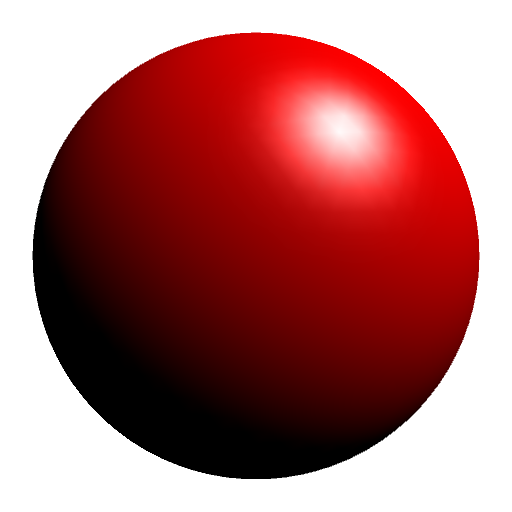
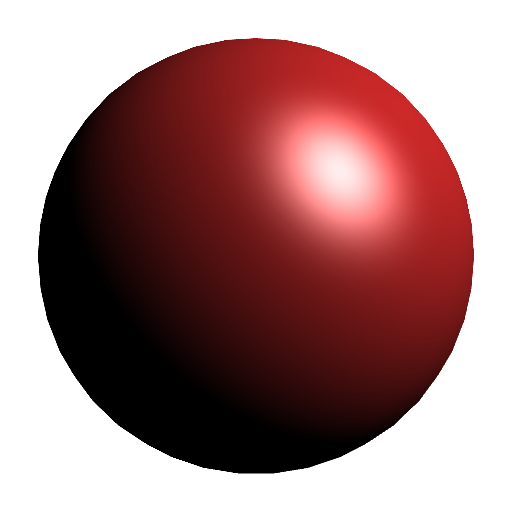
Redo lit sphere images

diff --git a/courses/csc4356/notes/05-lighting/lighting-4.html b/courses/csc4356/notes/05-lighting/lighting-4.html
@@ -12,13 +12,14 @@
 
 		<p><em>Specular</em> lighting models glossy surfaces.</p>
 
-		<table class="center">
-			<tr>
-				<td><img style="width:10em" src="../img/lit-sphere-specular.png"></td>
-				<td>&emsp;</td>
-				<td>$\V{c}_s=\V{c}_l\,\max(\V{n}\cdot\V{h}, 0)^\alpha$</td>
-			</tr>
-		</table>
+		<div class="tab">
+			<div class="col">
+				<img style="width:10em;margin-right:2em" src="../img/lit-sphere-specular.png">
+			</div>
+			<div class="col middle">
+				\[\V{c}_s=\V{c}_l\,\max(\V{n}\cdot\V{h}, 0)^\alpha\]
+			</div>
+		</div>
 
 		<p>The color of the light $\V{c}_l$ is modulated by the dot product of the normal $\V{n}$ and half-angle $\V{h}$ vectors, raised to a power.</p>
 
@@ -28,6 +29,16 @@
 		</figure>
 
 		<p>That power $\alpha$ determines the <em>tightness</em> of the distribution of color.</p>
+
+		<div class="tab">
+			<div class="col"><img style="width:12vw" src="../img/lit-sphere-specular-0.png"></div>
+			<div class="col"><img style="width:12vw" src="../img/lit-sphere-specular-1.png"></div>
+			<div class="col"><img style="width:12vw" src="../img/lit-sphere-specular-2.png"></div>
+			<div class="col"><img style="width:12vw" src="../img/lit-sphere-specular-3.png"></div>
+			<div class="col"><img style="width:12vw" src="../img/lit-sphere-specular-4.png"></div>
+			<div class="col"><img style="width:12vw" src="../img/lit-sphere-specular-5.png"></div>
+			<div class="col"><img style="width:12vw" src="../img/lit-sphere-specular-6.png"></div>
+		</div>
 
 		<p>A higher power gives a shinier material.</p>
 	</section>

diff --git a/courses/csc4356/notes/05-lighting/lighting-5.html b/courses/csc4356/notes/05-lighting/lighting-5.html
@@ -12,13 +12,24 @@
 
 		<p>Most materials exhibit both diffuse and specular properties, so the standard lighting equation uses both.</p>
 
-		<table class="center">
-			<tr>
-				<td><img style="width:10em" src="../img/lit-sphere.png"></td>
-				<td>&emsp;</td>
-				<td>$\V{c}=\V{c}_o\,\V{c}_l\,\max(\V{n}\cdot\V{l}, 0)+\V{c}_l\,\max(\V{n}\cdot\V{h}, 0)^\alpha$</td>
-			</tr>
-		</table>
+		<div class="tab">
+			<div class="col">
+				<img style="width:10em;margin-right:2em" src="../img/lit-sphere.png">
+			</div>
+			<div class="col middle">
+				\[\V{c}=\V{c}_o\,\V{c}_l\,\max(\V{n}\cdot\V{l}, 0)+\V{c}_l\,\max(\V{n}\cdot\V{h}, 0)^\alpha\]
+			</div>
+		</div>
+
+		<div class="tab">
+			<div class="col"><img style="width:12vw" src="../img/lit-sphere-0.png"></div>
+			<div class="col"><img style="width:12vw" src="../img/lit-sphere-1.png"></div>
+			<div class="col"><img style="width:12vw" src="../img/lit-sphere-2.png"></div>
+			<div class="col"><img style="width:12vw" src="../img/lit-sphere-3.png"></div>
+			<div class="col"><img style="width:12vw" src="../img/lit-sphere-4.png"></div>
+			<div class="col"><img style="width:12vw" src="../img/lit-sphere-5.png"></div>
+			<div class="col"><img style="width:12vw" src="../img/lit-sphere-6.png"></div>
+		</div>
 	</section>
 	<nav>
 		<a id="prev" href="lighting-4.html"></a>
